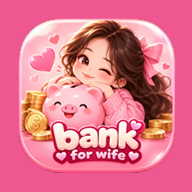
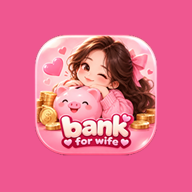
Add files via upload

diff --git a/sw.js b/sw.js
@@ -1,4 +1,4 @@
-const CACHE='chi-tieu-v13-smaller-app-icon';
+const CACHE='chi-tieu-v14-compact-app-icon';
 const FILES=['./','./index.html','./manifest.webmanifest','./assets/app-icon-192.png','./assets/app-icon-512.png'];
 
 self.addEventListener('install',event=>{
